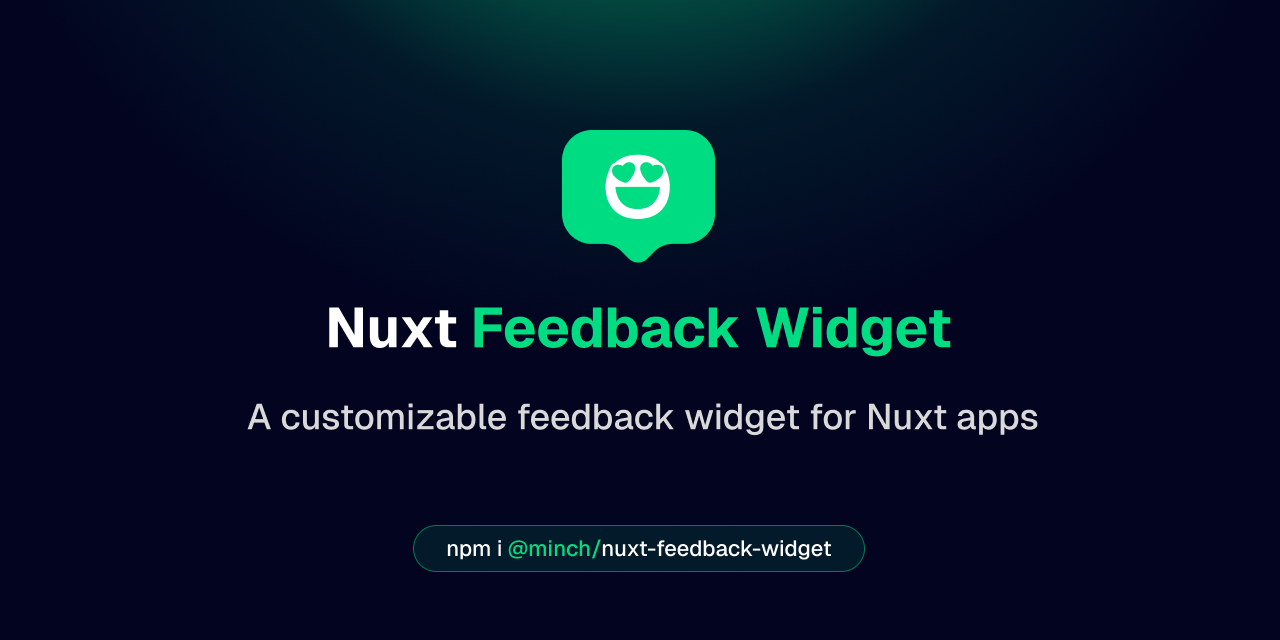
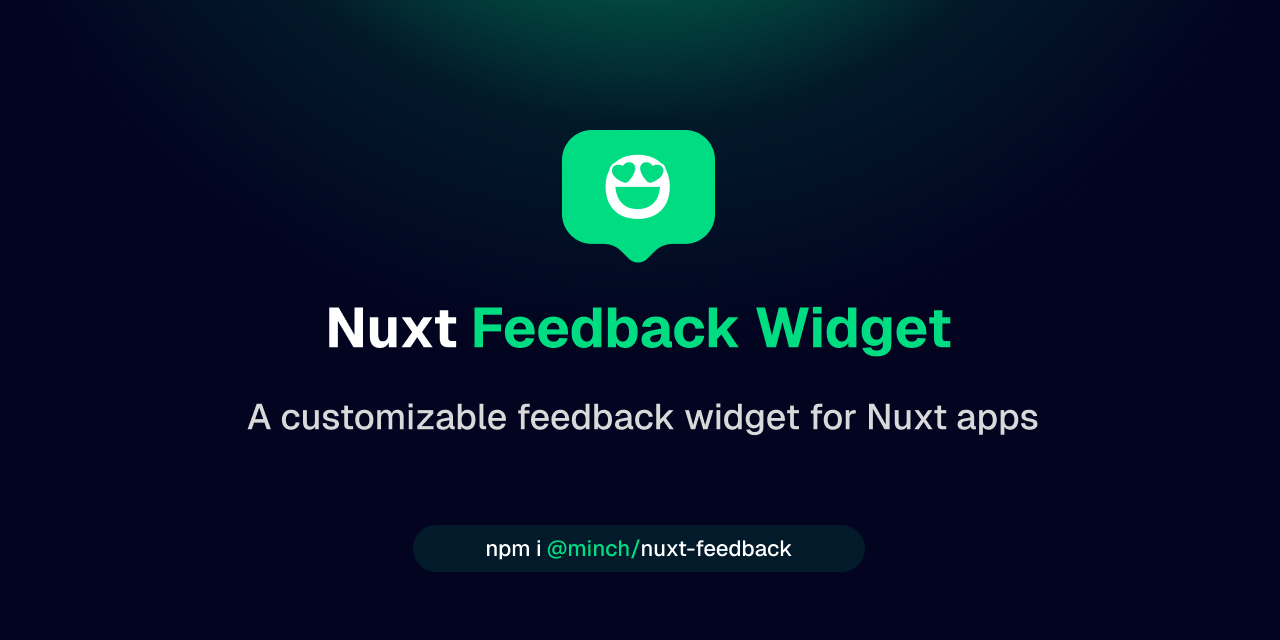
chore: update references to npm package name

Changed region(s): [[0.3438, 0.8438, 0.6562, 0.875]]

diff --git a/src/module.ts b/src/module.ts
@@ -24,7 +24,7 @@ export default defineNuxtModule<ModuleOptions>({
     name,
     version,
     configKey: "feedbackWidget",
-    docs: "https://github.com/oneminch/Nuxt-Feedback-Widget/#readme",
+    docs: "https://github.com/oneminch/Nuxt-Feedback/#readme",
   },
   defaults: {
     siteName: "Your Nuxt App",

diff --git a/README.md b/README.md
@@ -4,12 +4,15 @@
 
 # Nuxt Feedback Widget
 
-<!-- [![npm version][npm-version-src]][npm-version-href]
+[![npm version][npm-version-src]][npm-version-href]
+[![License][license-src]][license-href]
+[![Nuxt][nuxt-src]][nuxt-href]
+
+<!--
 [![npm downloads][npm-downloads-src]][npm-downloads-href]
 [![code quality][code-quality-src]][code-quality-href]
-[![License][license-src]][license-href]
-[![Nuxt][nuxt-src]][nuxt-href] -->
-<!-- [![bundle size][bundle-size-src]][bundle-size-href] -->
+[![bundle size][bundle-size-src]][bundle-size-href]
+-->
 
 A simple & customizable feedback widget for your Nuxt apps.
 
@@ -61,14 +64,14 @@ A simple & customizable feedback widget for your Nuxt apps.
 Add the module to your Nuxt application in one command:
 
 ```bash
-npx nuxt module add nuxt-feedback-widget
+npx nuxt module add @minch/nuxt-feedback
 ```
 
-To add manually, install the `nuxt-feedback-widget` package using your package manager of choice and add it to your `nuxt.config.ts`:
+To add manually, install the `@minch/nuxt-feedback` package using your package manager of choice and add it to your `nuxt.config.ts`:
 
 ```ts
 export default defineNuxtConfig({
-  modules: ["nuxt-feedback-widget"],
+  modules: ["@minch/nuxt-feedback"],
 
   feedbackWidget: {
     method: "email", // Required: Choose your submission method
@@ -89,7 +92,7 @@ Configure the module in your `nuxt.config.ts` under the `feedbackWidget` propert
 
 ```ts
 export default defineNuxtConfig({
-  modules: ["nuxt-feedback-widget"],
+  modules: ["@minch/nuxt-feedback"],
 
   feedbackWidget: {
     method: "email", // Required: 'email' | 'github' | 'custom-endpoint'
@@ -268,7 +271,7 @@ You can learn more about Resend from [their docs](https://resend.com/docs)
 ```ts
 // nuxt.config.ts
 export default defineNuxtConfig({
-  modules: ["nuxt-feedback-widget"],
+  modules: ["@minch/nuxt-feedback"],
 
   feedbackWidget: {
     method: "email",
@@ -303,7 +306,7 @@ GITHUB_OWNER=your-username-or-org
 ```ts
 // nuxt.config.ts
 export default defineNuxtConfig({
-  modules: ["nuxt-feedback-widget"],
+  modules: ["@minch/nuxt-feedback"],
 
   feedbackWidget: {
     method: "github",
@@ -327,7 +330,7 @@ Forwards feedback to your own API endpoint for custom processing.
 ```ts
 // nuxt.config.ts
 export default defineNuxtConfig({
-  modules: ["nuxt-feedback-widget"],
+  modules: ["@minch/nuxt-feedback"],
 
   feedbackWidget: {
     method: "custom-endpoint",
@@ -550,11 +553,14 @@ If you encounter issues, check:
 
 <!-- Badges -->
 
-<!-- [npm-version-src]: https://img.shields.io/npm/v/nuxt-feedback-widget/latest.svg?style=flat&colorA=020420&colorB=00DC82
-[npm-version-href]: https://npmjs.com/package/nuxt-feedback-widget
-[npm-downloads-src]: https://img.shields.io/npm/dm/nuxt-feedback-widget.svg?style=flat&colorA=020420&colorB=00DC82
+[npm-version-src]: https://img.shields.io/npm/v/@minch/nuxt-feedback/latest.svg?style=flat&colorA=020420&colorB=00DC82
+[npm-version-href]: https://npmjs.com/package/@minch/nuxt-feedback
+[license-src]: https://img.shields.io/npm/l/@minch/nuxt-feedback.svg?style=flat&colorA=020420&colorB=00DC82
+[license-href]: https://npmjs.com/package/@minch/nuxt-feedback
+[nuxt-src]: https://img.shields.io/badge/Nuxt-020420?logo=nuxt
+[nuxt-href]: https://nuxt.com
+
+<!--
 [npm-downloads-href]: https://npm.chart.dev/nuxt-feedback-widget
-[license-src]: https://img.shields.io/npm/l/nuxt-feedback-widget.svg?style=flat&colorA=020420&colorB=00DC82
-[license-href]: https://npmjs.com/package/nuxt-feedback-widget
-[nuxt-src]: https://img.shields.io/badge/Nuxt-020420?logo=nuxt.js
-[nuxt-href]: https://nuxt.com -->
+[npm-downloads-src]: https://img.shields.io/npm/dm/nuxt-feedback-widget.svg?style=flat&colorA=020420&colorB=00DC82
+-->
